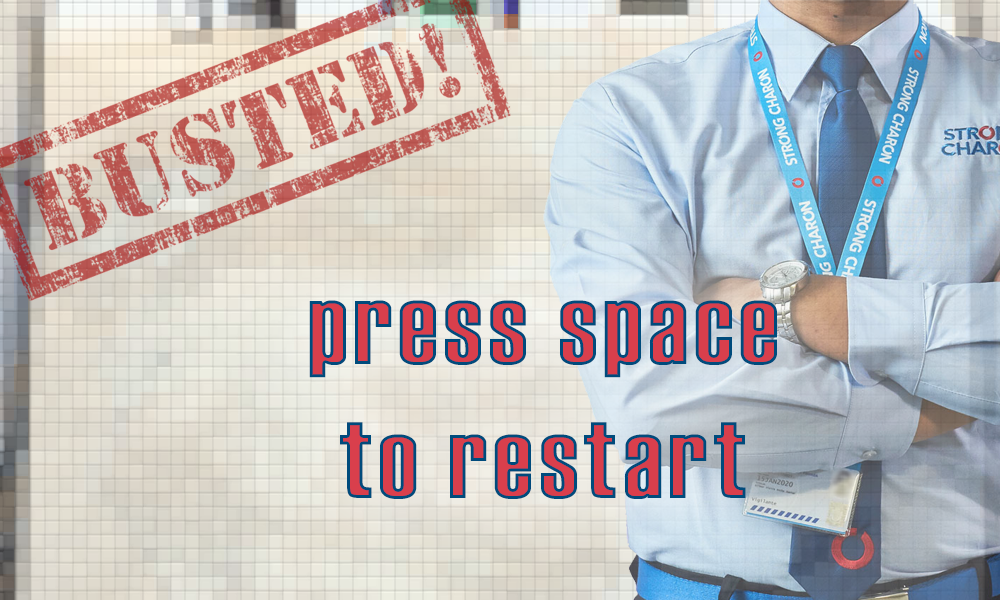
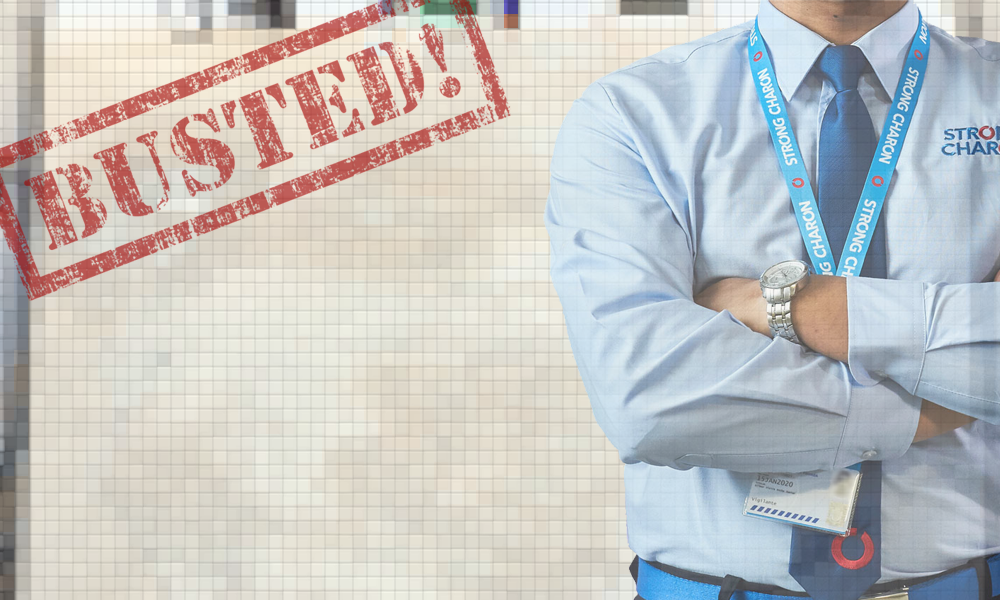
minor fixes: gameover img, delay 200

Changed region(s): [[0.341, 0.45, 0.806, 0.84], [0.31, 0.48, 0.527, 0.63]]

diff --git a/src/org/academiadecodigo/whiledcards/dudewhereisyourcard/Main.java b/src/org/academiadecodigo/whiledcards/dudewhereisyourcard/Main.java
@@ -1,7 +1,52 @@
 package org.academiadecodigo.whiledcards.dudewhereisyourcard;
 
+import org.academiadecodigo.simplegraphics.pictures.Picture;
+import org.academiadecodigo.whiledcards.dudewhereisyourcard.gfx.Grid;
+import org.academiadecodigo.whiledcards.dudewhereisyourcard.objects.*;
+import org.academiadecodigo.whiledcards.dudewhereisyourcard.objects.characters.*;
+
 public class Main {
-    public static void main(String[] args) {
+
+    public static void main(String[] args) throws InterruptedException {
+
+        Grid grid = new Grid(25,15);
+        grid.init();
+        Picture background = new Picture(10, 40, "background.png");
+        background.draw();
+
+        new Audio().runAudio();
+        Score score = new Score();
+
+        CodeCadet cadet = new CodeCadet(grid,"codecadet.png",1);
+
+        Friend friend = new Friend(grid, "friend.png", 1);
+
+        Guard guard = new Guard(grid, "guard.png",1);
+        guard.setTarget(friend.getPosition());
+
+        Beer beer = new Beer(grid,"beer.png");
+
+        Card card = new Card(grid, "card.png");
+
+        GameObject[] g = {cadet, card, beer, friend, guard};
+        //GameObject[] g = {guard, beer, cadet};
+        cadet.move();
+        MoveManager detector = new MoveManager(g);
+
+        while(!guard.isCaughtCadet()) {
+            Thread.sleep(200);
+            detector.manage();
+            friend.move();
+            guard.move();
+            cadet.capture();
+            score.update( beer.getScore(),card.getScore(),cadet.isDrunk());
+            score.printScore();
+        }
+
+        System.out.println("Game Over!");
+        GameOver gameOver = new GameOver(grid, "gameover.png");
+
 
     }
+
 }

diff --git a/src/org/academiadecodigo/whiledcards/dudewhereisyourcard/objects/GameOver.java b/src/org/academiadecodigo/whiledcards/dudewhereisyourcard/objects/GameOver.java
@@ -4,7 +4,7 @@ import org.academiadecodigo.simplegraphics.keyboard.Keyboard;
 import org.academiadecodigo.simplegraphics.keyboard.KeyboardEvent;
 import org.academiadecodigo.simplegraphics.keyboard.KeyboardEventType;
 import org.academiadecodigo.simplegraphics.keyboard.KeyboardHandler;
-import org.academiadecodigo.whiledcards.dudewhereisyourcard.Test;
+import org.academiadecodigo.whiledcards.dudewhereisyourcard.Main;
 import org.academiadecodigo.whiledcards.dudewhereisyourcard.gfx.*;
 
 
@@ -12,13 +12,13 @@ public class GameOver extends GameObject implements KeyboardHandler {
 
     private Position position;
     private Grid grid;
-    private Test game;
+    private Main game;
 
     public GameOver(Grid grid, String picName) {
         super(0,0, grid, picName);
     }
 
-    public void restart(Test game) {
+    public void restart(Main game) {
 
         Keyboard keyboard = new Keyboard(this);
 
